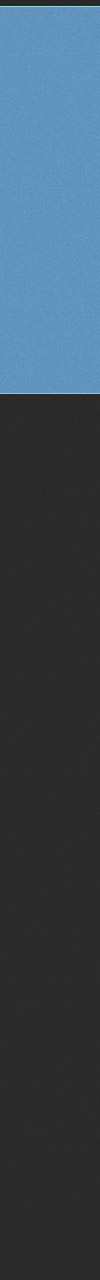
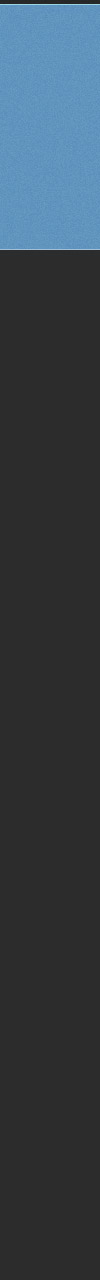
the header is now 250 high, instead of 394

Changed region(s): [[0.0, 0.1875, 1.0, 0.3125]]

diff --git a/public/css/style.css b/public/css/style.css
@@ -12,8 +12,13 @@
 /*---------------------------------------------------------------------------------------
 	COMMON DECLARATIONS
 ---------------------------------------------------------------------------------------*/
-html,body{ background: #2a2a2a url(/images/dcr-bkg-body.jpg) 0 0 repeat-x;}
-.clearme:after{ content: "."; display: block; visibility: hidden; clear: both; height: 0; font-size: 0.1em; line-height: 0;}
+html,body{ 
+    background: #2a2a2a 
+    url(/images/dcr-bkg-body.jpg) 0 0 repeat-x;
+}
+
+.clearme:after{ 
+    content: "."; display: block; visibility: hidden; clear: both; height: 0; font-size: 0.1em; line-height: 0;}
 a{ text-decoration: none;}
 
 
@@ -27,7 +32,7 @@ a{ text-decoration: none;}
 	#header{
 		position: relative;
 	 	width: 974px;
-	 	height: 394px;
+	 	height: 250px;
 	 	margin: auto;
 	}
 		
@@ -49,7 +54,6 @@ a{ text-decoration: none;}
 		h1 a{
 			display: block;
 			text-indent: -9999px;
-			background: url(/images/dcr-header-logo.png) 0 0 no-repeat;
 		}
 		
 		h2{
